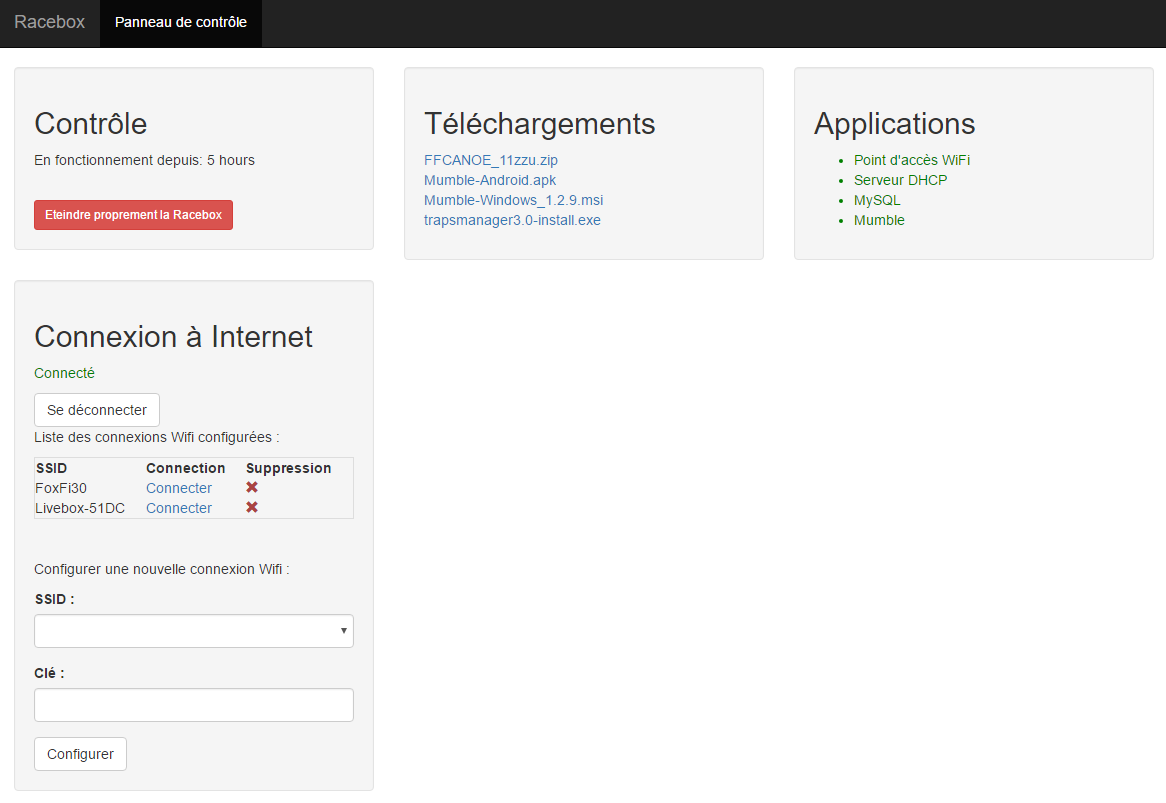
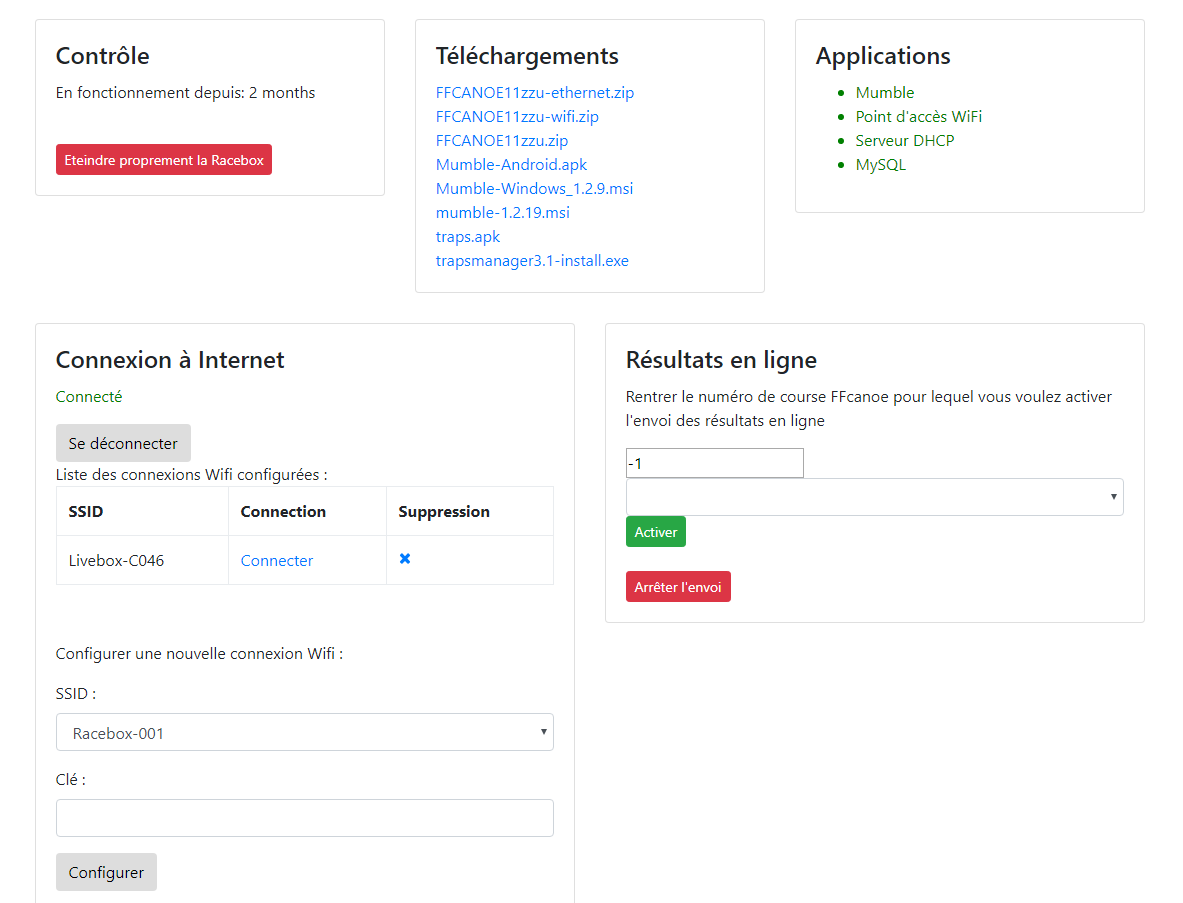
MAJ doc Racebox.

diff --git a/informations/faq.md b/informations/faq.md
@@ -1,8 +1,10 @@
 # Questions fréquentes
 N'hésitez pas à me contacter (nicolas.abbal@gmail.com) pour me poser vos questions...
 ### Que se passera-t-il lorsque CompetFFCK sera disponible ?
-La Racebox devra être mis à jour (remplacement de la carte micro SD), mais le matériel restera le même. L'interface de gestion de la Racebox ne devrait pas changer, et le fonctionnement global sera similaire.
+La Racebox devra être mise à jour gratuitement (remplacement de la carte micro SD), mais le matériel restera le même. L'interface de gestion de la Racebox ne devrait pas changer, et le fonctionnement global sera similaire.
 ### Puis-je continuer à "bidouiller" FFCanoe comme je le faisais jusqu'à maintenant ?
 Oui, il est tout à fait possible de modifier la configuration de FFCanoe, du moment où les paramètres de réseau et de base de données sont conservés. Néanmoins, un des buts de la Racebox est de proposer un environnement de travail stable et testé, tout changement par rapport à la configuration originale s'éloigne de ce principe. A réserver donc aux utilisateurs avancés !
 ### Puis-je mettre à jour FFCanoe avec une version plus récente que celle proposée par Racebox ?
 Même réponse que la question ci-dessus, cette version n'a pas forcément été testée, donc à vos risques et périls ! Il est plus sage d'attendre que cette version soit proposée dans la prochaine version de Racebox.
+### Est-ce que le fait d'utiliser une Racebox dispense de savoir utiliser FFCanoe ?
+Non, la Racebox a pour but de **simplifier et d'accélérer la mise en place technique** (et notamment la mise en réseau), **avant de pouvoir utiliser FFCanoe**.

diff --git a/utilisation/interface.md b/utilisation/interface.md
@@ -1,10 +1,10 @@
 ### Interface
-L'interface de la Racebox est accessible par un navigateur sur l'adresse [http://racebox.lan](http://racebox.lan).
+L'interface de la Racebox est accessible par un navigateur sur l'adresse [192.168.20.1](http://192.168.20.1) pour un poste relié en Wifi, sur l'adresse [192.168.25.1](http://192.168.25.1) pour un poste relié par un cable ethernet.
 
 ![Interface](./images/interface.png)
 
 - Le panneau "Contrôle" indique depuis combien de temps la Racebox fonctionne, et permet d'éteindre proprement le système une fois son utilisation terminée.
-- Le panneau "Téléchargements" liste les fichiers disponibles, notamment la version pré-configurée de FFCanoe.
+- Le panneau "Téléchargements" liste les fichiers disponibles, notamment les versions pré-configurées (Wifi et filaire) de FFCanoe.
 - Dans "Applications", on retrouve l'état des processus critiques qui tournent sur Racebox, notamment le point d'accès Wifi, le serveur DHCP qui attribue les adresses IP, la base de donnée MySQL qui enregistre les informations de FFCanoe et Mumble (le serveur de VOIP). Un processus en rouge signale un problème avec ce processus.
 - L'onglet "Connexion à Internet" permet de configurer et de gérer la connection à Internet de la Racebox via Wifi.
 

diff --git a/informations/tarif.md b/informations/tarif.md
@@ -1,3 +1,4 @@
 ### Tarif
-La racebox est vendue au tarif de 425€ TTC. Ce tarif comprend la Racebox et son adaptateur 220V, et un accès d'un an aux services Racebox (mises à jour du système, résultats en ligne, sauvegarde dans le cloud...).
-Au bout d'un an, l'utilisation de Racebox reste possible, cependant, pour continuer à utiliser les services en ligne (résultats en ligne, sauvegarde...) et pour bénéficier des mises à jours, il sera demander un renouvellement de l'abonnement pour un montant de 25€ TTC par an. Ce montant sert à financer les coûts d'hébergement et de maintenance der services en ligne.
+La racebox est vendue au tarif de 425€ TTC. 
+Ce tarif comprend la Racebox et son adaptateur 220V, et un accès d'un an aux services Racebox (mises à jour du système, résultats en ligne, sauvegarde dans le cloud...).
+Au bout d'un an, l'utilisation de Racebox reste possible, cependant, pour continuer à utiliser les services en ligne (résultats en ligne, sauvegarde...) et pour bénéficier des mises à jour, il sera demand" un renouvellement de l'abonnement pour un montant de 25€ TTC par an. Ce montant sert à financer les coûts d'hébergement et de maintenance des services en ligne.

diff --git a/utilisation/mise-a-jour.md b/utilisation/mise-a-jour.md
@@ -1,4 +1,12 @@
-### Mise à jour
+# Mise à jour
 Actuellement, la mise à jour de Racebox s'effectue en écrivant une image complète du système Racebox sur la carte SD. Une mise à jour direct du logiciel sans manipulation manuelle sera proposée plus tard.
 
-La procédure de mise à jour est décrite ci-dessous :
+### Remplacement d'une carte micro SD
+Si vous avez déjà une nouvelle version de Racebox sur une carte micro SD, suivre les étapes suivantes :
+- Eventuellement, récuperer les courses stockées sur votre Racebox, si vous souhaitez les conserver, en réalisant des exports PCE ou SAV depuis FFCanoe.
+- [Eteindre proprement votre Racebox](./mise-en-route).
+- Retirer la carte micro SD de la Racebox.
+- Insérer la nouvelle carte micro SD.
+
+### Ecriture d'une image de Racebox sur une carte micro SD
+Procédure à venir...

diff --git a/utilisation/branchements.md b/utilisation/branchements.md
@@ -1,12 +1,12 @@
 ### Présentation du boîtier et branchements
-Racebox se présente sous la forme d'un boîtier rectangulaire de 10 x 7,5 x 3,5 cm.
+Racebox se présente sous la forme d'un boîtier rectangulaire de 10 x 7,5 x 6,5 cm.
 
 ![Boîtier](images/boitier.jpg)
 
 La face avant présente :
  - un témoin d'alimentation rouge, allumé si le boîtier est alimenté
  - un témoin d'activité verte qui clignote lorsque la Racebox fonctionne
- - un capot de protection pour la carte Micro-SD de la Racebox.
+ - un capot de protection optionnel pour la carte Micro-SD de la Racebox (une fois le capot enclenché, il est nécessaire d'ouvrir la Racebox pour le retirer).
 
 ![Face avant](images/face-avant.jpg)
 
